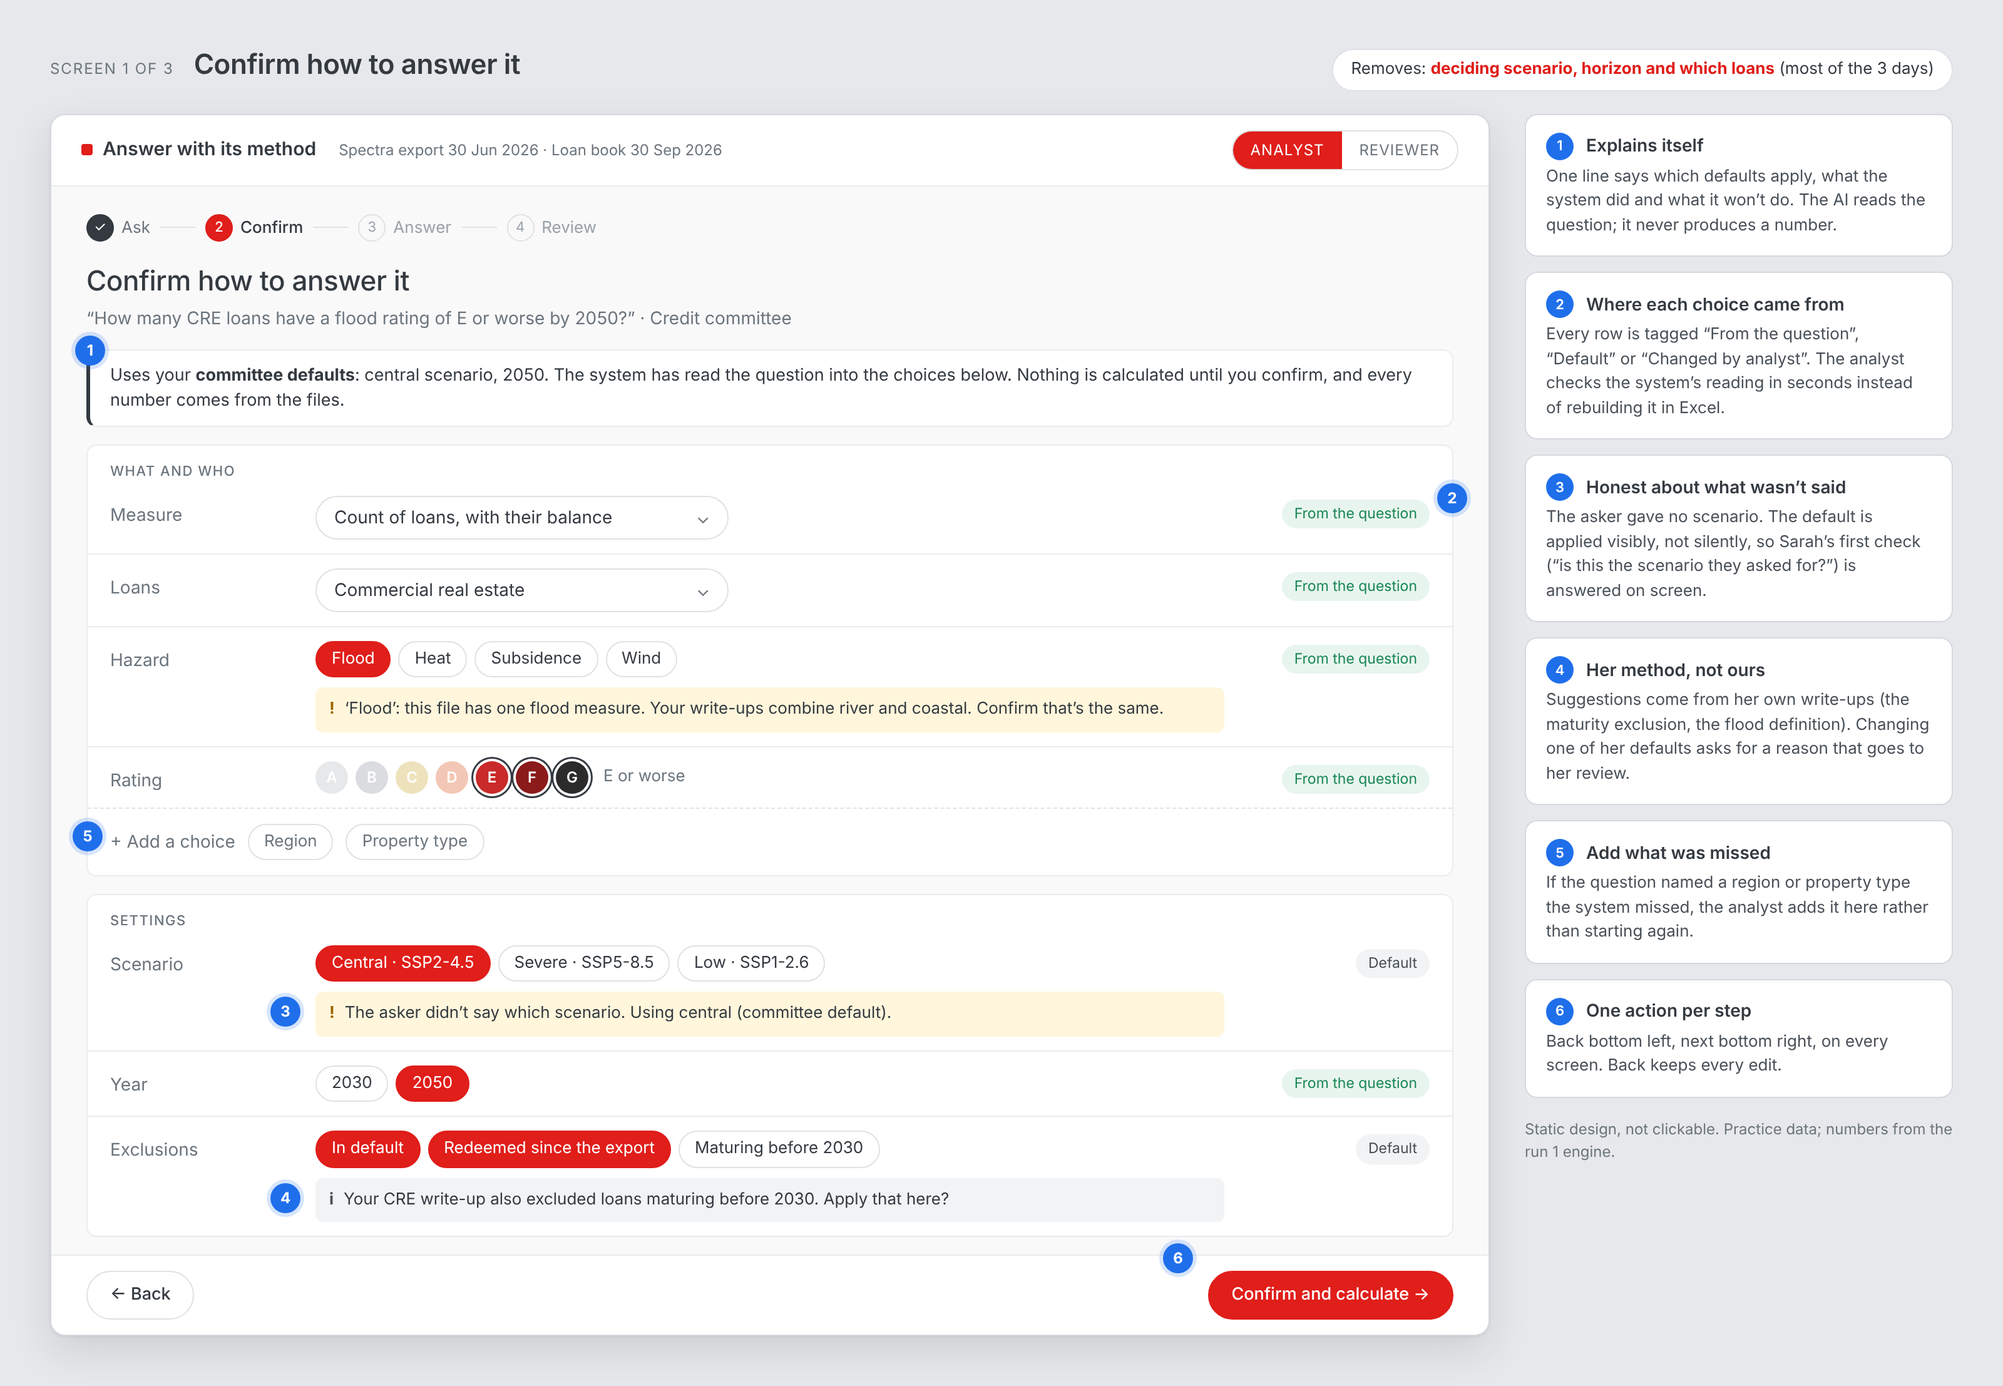
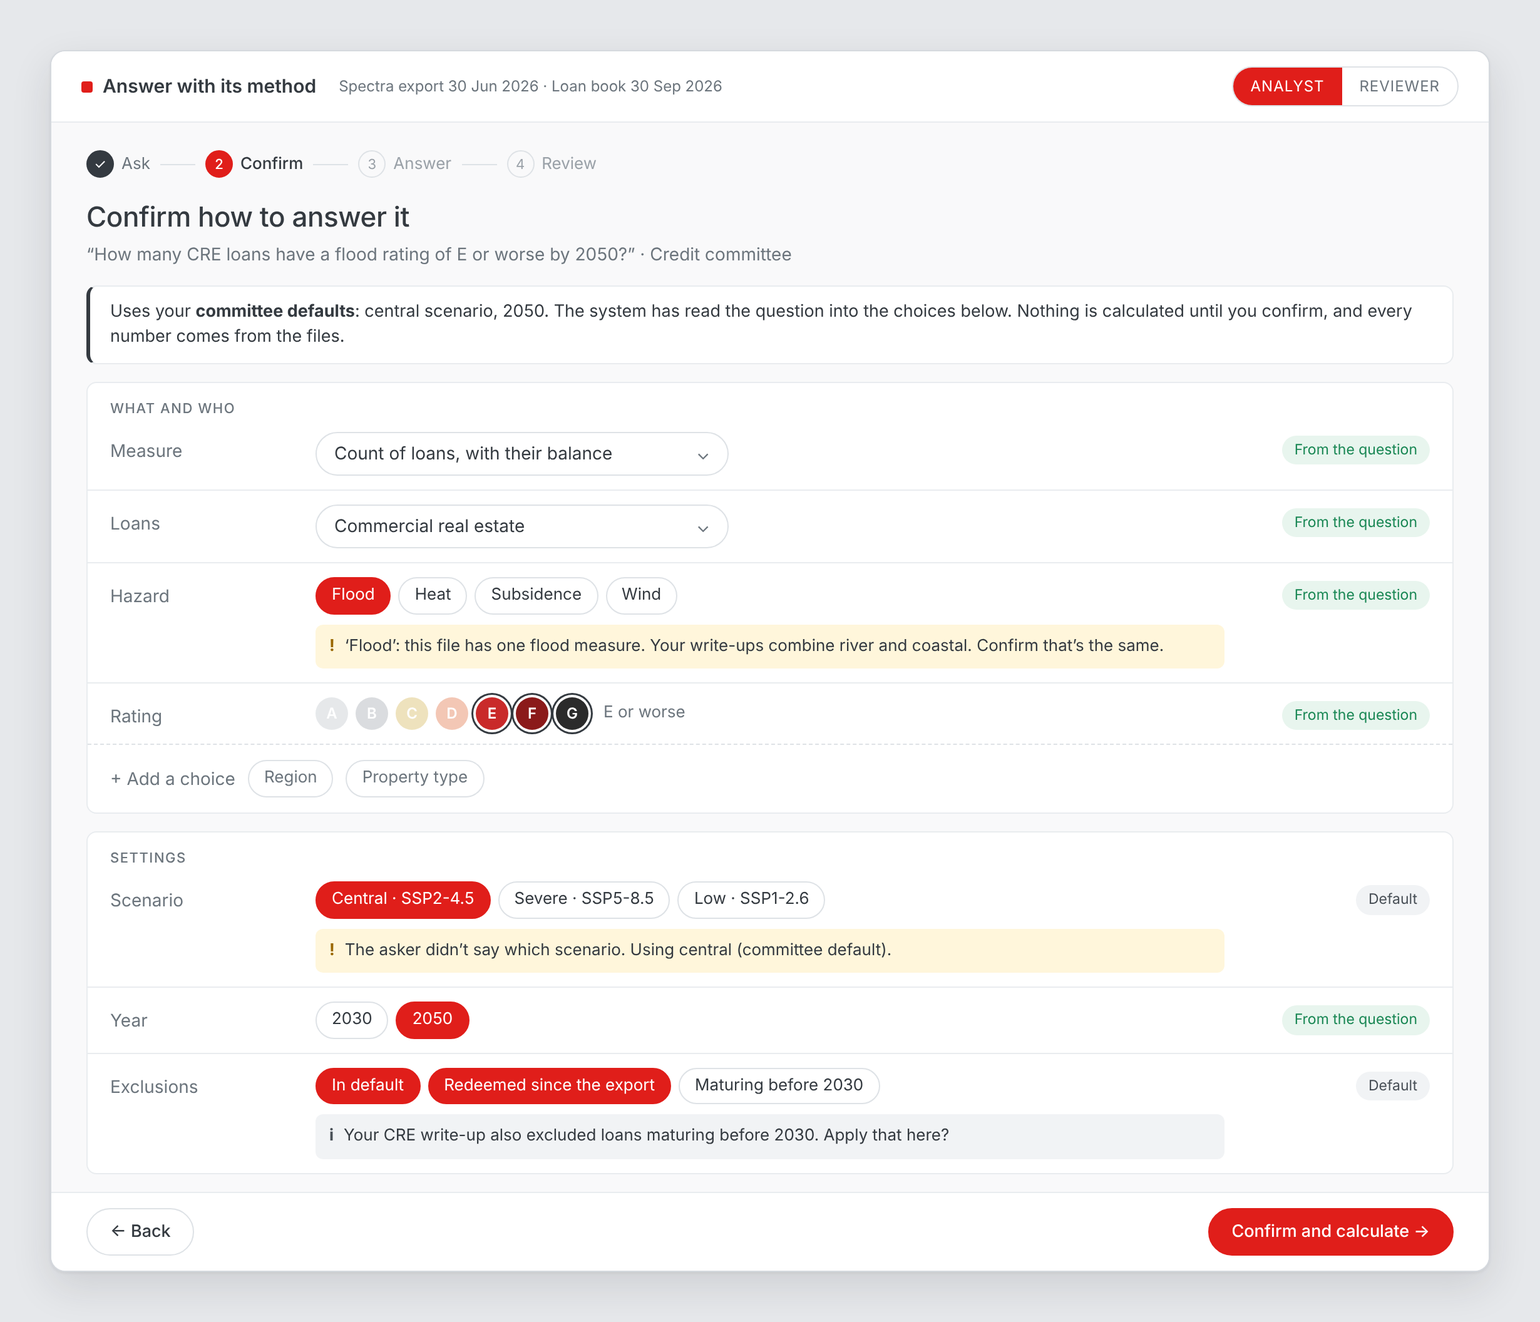
Run 1 visual design: product only, no annotations
Claude-Session: https://claude.ai/code/session_016JoguXTxkWcj5knaYbAtMZ

diff --git a/runs/run-1/design/visual-design.html b/runs/run-1/design/visual-design.html
@@ -2,9 +2,9 @@
 <html lang="en">
 <head>
 <meta charset="utf-8">
-<title>Run 1 visual design: answer with its method</title>
+<title>Answer with its method</title>
 <style>
-/* Visual design for run 1. Static artboards, not clickable. Numbers come from prototype/engine.py on the run 1 practice data.
+/* Run 1 visual design: the product only, no annotations (reasoning is in design.md). Numbers come from prototype/engine.py on the run 1 practice data.
    Brand: Climate X (Graphik → Inter as the stand-in here; red #e01e1a, charcoal #343a40, off-white #f9f9fa). */
 :root{
   --brand:#e01e1a; --brand-strong:#a11b14; --brand-soft:#fdecec; --ink:#343a40; --muted:#6c757d; --faint:#9aa1a8;
@@ -14,14 +14,14 @@
   --font:Graphik, Inter, Helvetica, Arial, sans-serif;
 }
 *{box-sizing:border-box} body{margin:0;background:var(--canvas);font:14px/1.5 var(--font);color:var(--ink);-webkit-font-smoothing:antialiased}
-.board{width:1600px;padding:36px 40px 40px;background:var(--canvas)}
+.board{width:1230px;padding:40px;background:var(--canvas)}
 .board + .board{border-top:1px solid #d5d9de}
 .bhead{display:flex;align-items:baseline;gap:16px;margin-bottom:18px}
 .bhead h1{font-size:22px;font-weight:600;margin:0;letter-spacing:-.01em}
 .bhead .k{font-size:12px;text-transform:uppercase;letter-spacing:.08em;color:var(--muted)}
 .bhead .pain{margin-left:auto;font-size:13px;background:var(--surface);border:1px solid var(--line2);border-radius:999px;padding:6px 14px}
 .bhead .pain b{color:var(--brand)}
-.grid{display:grid;grid-template-columns:1150px 1fr;gap:28px;align-items:start}
+.grid{display:block}
 /* app frame */
 .app{background:var(--bg);border-radius:12px;overflow:hidden;box-shadow:0 1px 2px rgba(0,0,0,.06),0 12px 32px rgba(33,37,41,.12);border:1px solid #d5d9de}
 .top{background:var(--surface);border-bottom:1px solid var(--line);display:flex;align-items:center;gap:18px;padding:12px 24px}
@@ -94,8 +94,6 @@ ol.method{margin:0;padding-left:18px;font-size:13px;display:grid;gap:4px}
 
 <!-- =============== Screen 1 · Confirm =============== -->
 <section class="board" id="s1">
-  <div class="bhead"><span class="k">Screen 1 of 3</span><h1>Confirm how to answer it</h1>
-    <span class="pain">Removes: <b>deciding scenario, horizon and which loans</b> (most of the 3 days)</span></div>
   <div class="grid">
     <div class="app">
       <div class="top"><span class="brandname"><em></em>Answer with its method</span><span class="dates">Spectra export 30 Jun 2026 · Loan book 30 Sep 2026</span><span class="grow"></span><span class="seg"><span class="on">Analyst</span><span>Reviewer</span></span></div>
@@ -103,9 +101,9 @@ ol.method{margin:0;padding-left:18px;font-size:13px;display:grid;gap:4px}
         <div class="stepper"><span class="done"><span class="n">✓</span>Ask</span><span class="bar"></span><span class="on"><span class="n">2</span>Confirm</span><span class="bar"></span><span><span class="n">3</span>Answer</span><span class="bar"></span><span><span class="n">4</span>Review</span></div>
         <h2>Confirm how to answer it</h2>
         <p class="sub">“How many CRE loans have a flood rating of E or worse by 2050?” · Credit committee</p>
-        <div class="banner"><span class="m" style="left:-12px;top:-12px">1</span>Uses your <b>committee defaults</b>: central scenario, 2050. The system has read the question into the choices below. Nothing is calculated until you confirm, and every number comes from the files.</div>
+        <div class="banner">Uses your <b>committee defaults</b>: central scenario, 2050. The system has read the question into the choices below. Nothing is calculated until you confirm, and every number comes from the files.</div>
         <div class="card">
-          <span class="m" style="right:-12px;top:30px">2</span>
+          
           <p class="sec">What and who</p>
           <div class="row"><span class="k">Measure</span><span><span class="sel">Count of loans, with their balance</span></span><span class="t"><span class="tag q">From the question</span></span></div>
           <div class="row"><span class="k">Loans</span><span><span class="sel">Commercial real estate</span></span><span class="t"><span class="tag q">From the question</span></span></div>
@@ -114,35 +112,24 @@ ol.method{margin:0;padding-left:18px;font-size:13px;display:grid;gap:4px}
           <div class="row"><span class="k">Rating</span><span><span class="chips">
             <span class="rate off" style="background:var(--r-a)">A</span><span class="rate off" style="background:var(--r-b)">B</span><span class="rate off" style="background:var(--r-c)">C</span><span class="rate off" style="background:var(--r-d)">D</span><span class="rate on" style="background:var(--r-e)">E</span><span class="rate on" style="background:var(--r-f)">F</span><span class="rate on" style="background:var(--r-g)">G</span>
             <span style="color:var(--muted);font-size:13px;margin-left:6px">E or worse</span></span></span><span class="t"><span class="tag q">From the question</span></span></div>
-          <div class="add"><span class="m" style="left:-12px;top:10px">5</span>+ Add a choice <span class="chip">Region</span><span class="chip">Property type</span></div>
+          <div class="add">+ Add a choice <span class="chip">Region</span><span class="chip">Property type</span></div>
         </div>
         <div class="card">
           <p class="sec">Settings</p>
           <div class="row"><span class="k">Scenario</span><span><span class="chips"><span class="chip on">Central · SSP2-4.5</span><span class="chip">Severe · SSP5-8.5</span><span class="chip">Low · SSP1-2.6</span></span>
-            <div class="flag" style="position:relative"><span class="m" style="left:-36px;top:4px">3</span>The asker didn’t say which scenario. Using central (committee default).</div></span><span class="t"><span class="tag">Default</span></span></div>
+            <div class="flag" style="position:relative">The asker didn’t say which scenario. Using central (committee default).</div></span><span class="t"><span class="tag">Default</span></span></div>
           <div class="row"><span class="k">Year</span><span><span class="chips"><span class="chip">2030</span><span class="chip on">2050</span></span></span><span class="t"><span class="tag q">From the question</span></span></div>
           <div class="row"><span class="k">Exclusions</span><span><span class="chips"><span class="chip on">In default</span><span class="chip on">Redeemed since the export</span><span class="chip">Maturing before 2030</span></span>
-            <div class="flag i" style="position:relative"><span class="m" style="left:-36px;top:4px">4</span>Your CRE write-up also excluded loans maturing before 2030. Apply that here?</div></span><span class="t"><span class="tag">Default</span></span></div>
+            <div class="flag i" style="position:relative">Your CRE write-up also excluded loans maturing before 2030. Apply that here?</div></span><span class="t"><span class="tag">Default</span></span></div>
         </div>
       </div>
-      <div class="actions"><span class="btn">← Back</span><span class="grow"></span><span class="m" style="right:236px;top:-10px">6</span><span class="btn p">Confirm and calculate →</span></div>
-    </div>
-    <div class="notes">
-      <div class="note"><div class="h"><i>1</i>Explains itself</div><p>One line says which defaults apply, what the system did and what it won’t do. The AI reads the question; it never produces a number.</p></div>
-      <div class="note"><div class="h"><i>2</i>Where each choice came from</div><p>Every row is tagged “From the question”, “Default” or “Changed by analyst”. The analyst checks the system’s reading in seconds instead of rebuilding it in Excel.</p></div>
-      <div class="note"><div class="h"><i>3</i>Honest about what wasn’t said</div><p>The asker gave no scenario. The default is applied visibly, not silently, so Sarah’s first check (“is this the scenario they asked for?”) is answered on screen.</p></div>
-      <div class="note"><div class="h"><i>4</i>Her method, not ours</div><p>Suggestions come from her own write-ups (the maturity exclusion, the flood definition). Changing one of her defaults asks for a reason that goes to her review.</p></div>
-      <div class="note"><div class="h"><i>5</i>Add what was missed</div><p>If the question named a region or property type the system missed, the analyst adds it here rather than starting again.</p></div>
-      <div class="note"><div class="h"><i>6</i>One action per step</div><p>Back bottom left, next bottom right, on every screen. Back keeps every edit.</p></div>
-      <p class="legend">Static design, not clickable. Practice data; numbers from the run 1 engine.</p>
+      <div class="actions"><span class="btn">← Back</span><span class="grow"></span><span class="btn p">Confirm and calculate →</span></div>
     </div>
   </div>
 </section>
 
 <!-- =============== Screen 2 · Answer =============== -->
 <section class="board" id="s2">
-  <div class="bhead"><span class="k">Screen 2 of 3</span><h1>The answer, with its method</h1>
-    <span class="pain">Removes: <b>the write-up and “what about severe?”</b> (2 extra days per follow-up)</span></div>
   <div class="grid">
     <div class="app">
       <div class="top"><span class="brandname"><em></em>Answer with its method</span><span class="dates">Spectra export 30 Jun 2026 · Loan book 30 Sep 2026</span><span class="grow"></span><span class="seg"><span class="on">Analyst</span><span>Reviewer</span></span></div>
@@ -152,7 +139,7 @@ ol.method{margin:0;padding-left:18px;font-size:13px;display:grid;gap:4px}
         <p class="sub">“How many CRE loans have a flood rating of E or worse by 2050?” · Credit committee · draft</p>
         <div class="layout">
           <div>
-            <div class="card"><span class="m" style="left:-12px;top:-12px">1</span>
+            <div class="card">
               <p class="sec">Answer <span class="tag q">✓ All 6 checks pass</span></p>
               <div class="bd">
                 <div class="big"><b>4</b> of 235 CRE loans</div>
@@ -160,7 +147,7 @@ ol.method{margin:0;padding-left:18px;font-size:13px;display:grid;gap:4px}
                 <div class="meter"><i style="width:1.22%;min-width:6px"></i></div>
                 <div style="font-size:12px;color:var(--muted)">1.2% of the CRE book by balance</div>
               </div></div>
-            <div class="card"><span class="m" style="left:-12px;top:-12px">2</span>
+            <div class="card">
               <p class="sec">If one choice changed</p>
               <div class="bd"><table class="vt">
                 <tr><td>Severe scenario</td><td>8 loans · £17.0m</td><td><span class="tag f">Doubles the answer</span></td></tr>
@@ -168,7 +155,7 @@ ol.method{margin:0;padding-left:18px;font-size:13px;display:grid;gap:4px}
                 <tr><td>Year 2030</td><td>4 loans · £6.2m</td><td><span class="tag a">Same count, different loans</span></td></tr>
                 <tr><td>Count properties</td><td>4 properties · £7.1m</td><td><span class="tag">Same answer</span></td></tr>
               </table></div></div>
-            <div class="card"><span class="m" style="left:-12px;top:-12px">3</span>
+            <div class="card">
               <p class="sec">Method note <span class="btn s">Copy</span></p>
               <div class="bd"><ol class="method">
                 <li>Scenario: central (SSP2-4.5). Horizon: 2050.</li>
@@ -179,7 +166,7 @@ ol.method{margin:0;padding-left:18px;font-size:13px;display:grid;gap:4px}
                 <li>Spectra export as at 30 Jun 2026, joined to the loan book as at 30 Sep 2026 on loan ID; 2 loans didn’t match and are listed separately.</li>
                 <li>Current balances, no allowance for repayment.</li>
               </ol></div></div>
-            <div class="card"><span class="m" style="left:-12px;top:-12px">4</span>
+            <div class="card">
               <p class="sec">Checks</p>
               <div class="bd">
                 <div class="ck"><span class="tag q">✓ Pass</span><span><b>Horizon matches the question:</b> 2050</span></div>
@@ -189,7 +176,7 @@ ol.method{margin:0;padding-left:18px;font-size:13px;display:grid;gap:4px}
               </div></div>
           </div>
           <aside>
-            <div class="card"><span class="m" style="right:-12px;top:-12px">5</span>
+            <div class="card">
               <p class="sec">The 4 loans</p>
               <div class="bd"><table class="mini">
                 <tr><td>Hotel · Yorkshire</td><td>£3.1m · E</td></tr><tr><td>Warehouse · South West</td><td>£1.8m · E</td></tr><tr><td>Mixed use · North West</td><td>£1.2m · E</td></tr><tr><td>Hotel · East of England</td><td>£1.1m · E</td></tr>
@@ -201,24 +188,13 @@ ol.method{margin:0;padding-left:18px;font-size:13px;display:grid;gap:4px}
           </aside>
         </div>
       </div>
-      <div class="actions"><span class="btn">← Back to choices</span><span class="grow"></span><span class="m" style="right:182px;top:-10px">6</span><span class="btn p">Submit to Sarah →</span></div>
-    </div>
-    <div class="notes">
-      <div class="note"><div class="h"><i>1</i>One headline, in her format</div><p>Count, then balance out of the total, exactly how her team writes it (“142 of 3,860 loans, £410m of £9.2bn”). Detail sits below, never above.</p></div>
-      <div class="note"><div class="h"><i>2</i>The follow-up, answered before it’s asked</div><p>“What about severe?” used to cost two days. Each one-change version comes with a plain verdict, so she sees which choices matter (severe doubles it) and which don’t.</p></div>
-      <div class="note"><div class="h"><i>3</i>Her write-up, written for her</div><p>The same fields her analysts write by hand: scenario, hazard definition, population, exclusions, data dates, join result, balance basis. One click to copy into the email.</p></div>
-      <div class="note"><div class="h"><i>4</i>What she checks today, done first</div><p>Horizon, freshness, scenario, loans in or out. Each check passes or fails in plain words.</p></div>
-      <div class="note"><div class="h"><i>5</i>Provenance and limits on screen</div><p>The actual loans behind the number, the settings used, and what this answer isn’t. Closes the two gaps from the prototype’s checklist (rows only in Excel; limits not stated in the app).</p></div>
-      <div class="note"><div class="h"><i>6</i>Ends in an action</div><p>Submit to Sarah. A failed check never blocks; it moves to the top of her screen and needs a note.</p></div>
-      <p class="legend">All counts, balances and loans from the run 1 engine (practice data).</p>
+      <div class="actions"><span class="btn">← Back to choices</span><span class="grow"></span><span class="btn p">Submit to Sarah →</span></div>
     </div>
   </div>
 </section>
 
 <!-- =============== Screen 3 · Review =============== -->
 <section class="board" id="s3">
-  <div class="bhead"><span class="k">Screen 3 of 3</span><h1>Sarah’s review: a draft with three slips</h1>
-    <span class="pain">Removes: <b>half a day of checking</b>, and a wrong figure reaching committee</span></div>
   <div class="grid">
     <div class="app">
       <div class="top"><span class="brandname"><em></em>Answer with its method</span><span class="dates">Spectra export 30 Jun 2026 · Loan book 30 Sep 2026</span><span class="grow"></span><span class="seg"><span>Analyst</span><span class="on">Reviewer</span></span></div>
@@ -226,14 +202,14 @@ ol.method{margin:0;padding-left:18px;font-size:13px;display:grid;gap:4px}
         <div class="stepper"><span class="on"><span class="n">1</span>Review</span></div>
         <h2>Review the answer</h2>
         <p class="sub">“How many CRE loans have a flood rating of E or worse by 2050?” · asked by Credit committee · built by an analyst</p>
-        <div class="callout"><span class="m" style="left:-12px;top:-12px">1</span>
+        <div class="callout">
           <h3>Look at these first: 3 checks failed</h3>
           <div class="slip"><span class="x">✕</span><span><b>Wrong horizon.</b> The question asks about 2050; this answer uses 2030.</span><span class="tag f">Changes the answer</span></div>
           <div class="slip"><span class="x">✕</span><span><b>Stale export.</b> The export is older than the loan book; 22 loans redeemed since then are included.</span><span class="tag f">Changes the answer</span></div>
-          <div class="slip" style="position:relative"><span class="m" style="left:-40px;top:6px">2</span><span class="x">✕</span><span><b>No scenario stated.</b> The note wouldn’t say which scenario was used.</span><span class="tag f">Can’t be defended</span></div>
+          <div class="slip" style="position:relative"><span class="x">✕</span><span><b>No scenario stated.</b> The note wouldn’t say which scenario was used.</span><span class="tag f">Can’t be defended</span></div>
           <div style="font-size:13px;color:var(--muted);margin-top:8px">Analyst’s note: “Needed for tomorrow’s committee.”</div>
         </div>
-        <div class="card"><span class="m" style="left:-12px;top:-12px">3</span>
+        <div class="card">
           <p class="sec">What this changes</p>
           <div class="bd"><div class="compare">
             <div class="c bad"><div class="lbl">As drafted</div><div class="v">4 of 236 loans · £6.2m</div><div style="font-size:12.5px;color:var(--fail)">2030 · scenario not stated · includes redeemed loans</div></div>
@@ -242,14 +218,7 @@ ol.method{margin:0;padding-left:18px;font-size:13px;display:grid;gap:4px}
         <div class="card dim"><p class="sec">Method note as drafted</p>
           <div class="bd"><ol class="method"><li>Scenario: <span class="hl">NOT STATED</span>. Horizon: <span class="hl">2030</span>.</li><li>Hazard: flood; rated E or worse.</li><li>Population: commercial real estate. Excludes loans in default.</li></ol></div></div>
       </div>
-      <div class="actions"><span class="btn">← Back to queue</span><span class="grow"></span><span class="m" style="right:330px;top:-10px">4</span><span class="btn">Approve anyway</span><span class="btn p">Send back with these 3 points</span></div>
-    </div>
-    <div class="notes">
-      <div class="note"><div class="h"><i>1</i>Problems first</div><p>What she’d find after half a day of checking is the first thing on the screen. If nothing failed, this box isn’t there and she reads the answer.</p></div>
-      <div class="note"><div class="h"><i>2</i>Each slip in plain words</div><p>Not error codes: what went wrong and whether it changes the answer or just can’t be defended. Each one looks small; together they change what goes to committee.</p></div>
-      <div class="note"><div class="h"><i>3</i>The effect, side by side</div><p>The drafted number next to the number with the checks fixed, both calculated by code, so she sees the impact without redoing the work.</p></div>
-      <div class="note"><div class="h"><i>4</i>Warn, don’t block</div><p>Send back comes pre-filled with the three points. She can still approve; the reason is logged with the answer, along with who asked, built and approved, for model risk.</p></div>
-      <p class="legend">Follow-ups that change one thing the asker requested (e.g. “what about severe?”) go to a lighter fast-track view showing only the change.</p>
+      <div class="actions"><span class="btn">← Back to queue</span><span class="grow"></span><span class="btn">Approve anyway</span><span class="btn p">Send back with these 3 points</span></div>
     </div>
   </div>
 </section>
